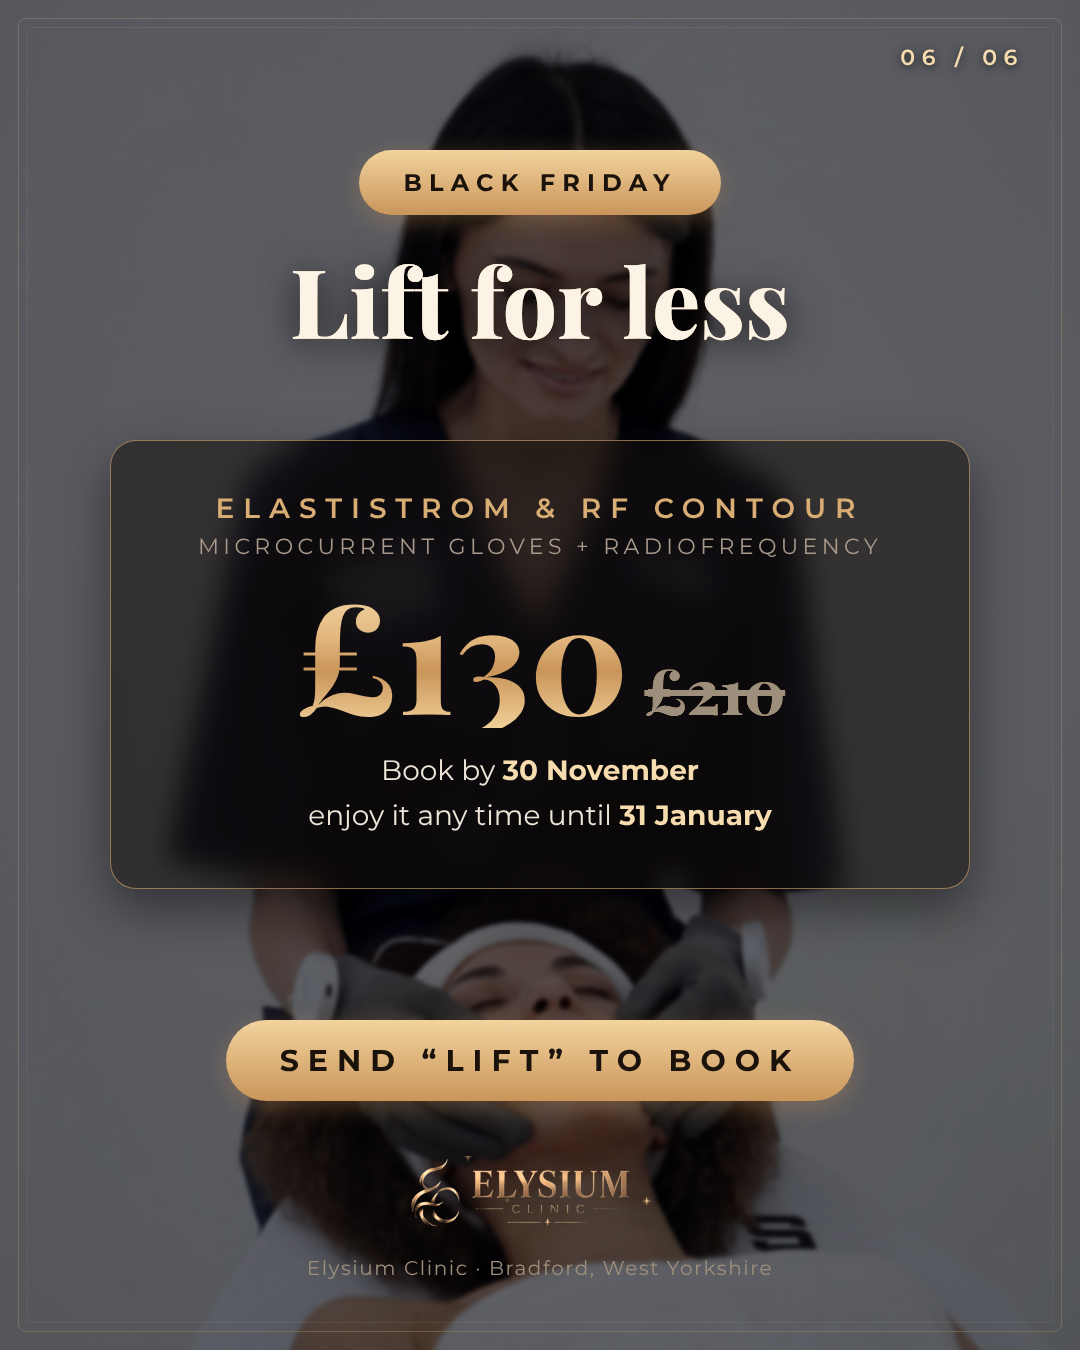
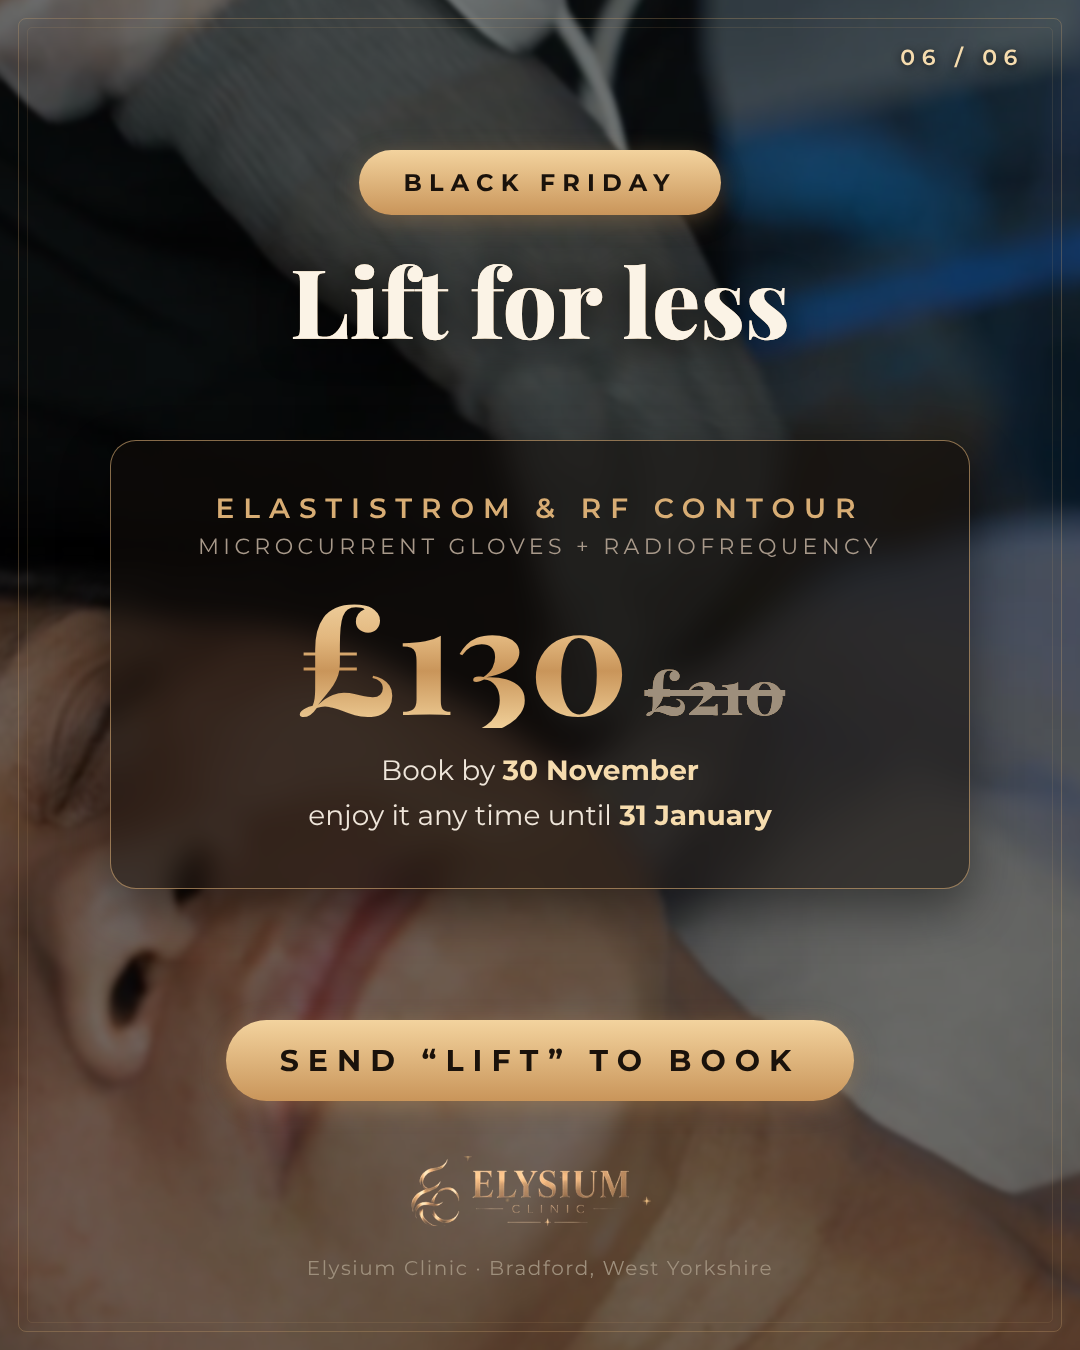
21.11: remove therapist photos (not Monika) from carousel slide 6 and 18:00 story
Claude-Session: https://claude.ai/code/session_01SaUhS5EeEBn7oMfuXG8zXf

diff --git a/posts_21_11/src/p4_6.html b/posts_21_11/src/p4_6.html
@@ -1,4 +1,4 @@
-<!doctype html><html lang="en"><head><meta charset="utf-8"><link href="https://fonts.googleapis.com/css2?family=Playfair+Display:ital,wght@0,600;0,700;0,800;1,600;1,700&family=Montserrat:wght@400;500;600;700&display=block" rel="stylesheet"><link rel="stylesheet" href="common.css"><style>html,body{width:1080px;height:1350px}</style></head><body><div class="c"><div class="ph" style="background-image:url(z3.jpg);background-position:center 70%;height:1350px;filter:brightness(.45) blur(2px);transform:scale(1.04)"></div><div class="deco"></div><div class="no">06 / 06</div>
+<!doctype html><html lang="en"><head><meta charset="utf-8"><link href="https://fonts.googleapis.com/css2?family=Playfair+Display:ital,wght@0,600;0,700;0,800;1,600;1,700&family=Montserrat:wght@400;500;600;700&display=block" rel="stylesheet"><link rel="stylesheet" href="common.css"><style>html,body{width:1080px;height:1350px}</style></head><body><div class="c"><div class="ph" style="background-image:url(k2.jpg);background-position:center 55%;height:1350px;filter:brightness(.45) blur(2px);transform:scale(1.04)"></div><div class="deco"></div><div class="no">06 / 06</div>
 <div style="position:absolute;left:0;right:0;top:150px;text-align:center"><div class="pill">BLACK FRIDAY</div>
 <h1 style="font-family:'Playfair Display',serif;font-size:96px;font-weight:800;margin-top:36px;line-height:1" class="goldtext ds">Lift for less</h1></div>
 <div class="glass" style="position:absolute;left:110px;right:110px;top:440px;padding:50px;text-align:center">

diff --git a/posts_21_11/src/story3_1800.html b/posts_21_11/src/story3_1800.html
@@ -1,5 +1,5 @@
 <!doctype html><html lang="en"><head><meta charset="utf-8"><link href="https://fonts.googleapis.com/css2?family=Playfair+Display:ital,wght@0,600;0,700;0,800;1,600;1,700&family=Montserrat:wght@400;500;600;700&display=block" rel="stylesheet"><link rel="stylesheet" href="common.css"><style>
-.bg{position:absolute;inset:0;background:url(z7.jpg) center 35%/cover;filter:blur(2px) brightness(.5);transform:scale(1.05)}
+.bg{position:absolute;inset:0;background:url(z4.jpg) center 40%/cover;filter:blur(2px) brightness(.5);transform:scale(1.05)}
 .shade{position:absolute;inset:0;background:linear-gradient(180deg,rgba(10,7,5,.9) 0%,rgba(10,7,5,.55) 30%,rgba(10,7,5,.65) 55%,rgba(10,7,5,.95) 80%)}
 .top{position:absolute;top:160px;left:0;right:0;text-align:center}
 .new{display:inline-block;margin-top:26px;font-size:22px;letter-spacing:.3em;color:var(--gold1);font-weight:700;border:1.5px solid rgba(216,173,116,.7);border-radius:40px;padding:10px 26px}
